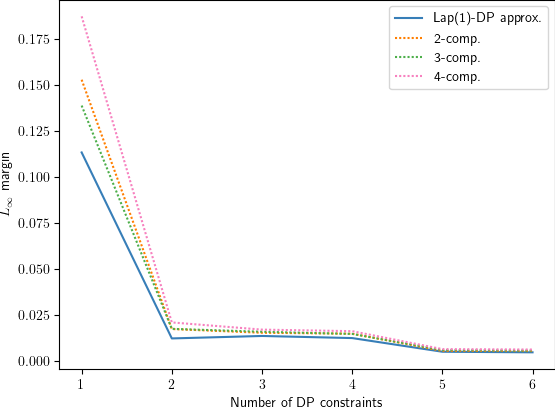
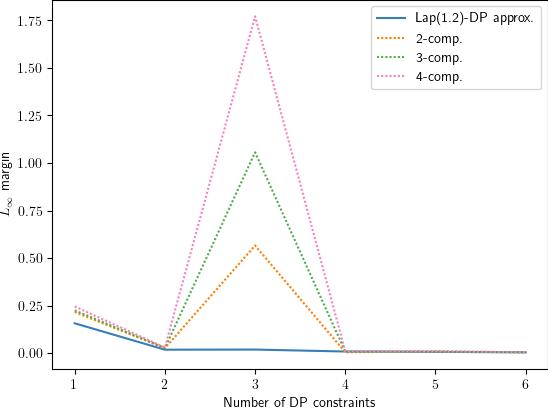
minor updates

diff --git a/plots/tikz/error_n_increases_laplace.tex b/plots/tikz/error_n_increases_laplace.tex
@@ -30,60 +30,60 @@ xticklabels={
 },
 y grid style={darkgray176},
 ylabel={\(\displaystyle L\)\textsubscript{\(\displaystyle \infty\)} margin},
-ymin=-0.00446466842611999, ymax=0.19620593911725,
+ymin=-0.0846290919528497, ymax=1.86014649834277,
 ytick style={color=black},
-ytick={-0.025,0,0.025,0.05,0.075,0.1,0.125,0.15,0.175,0.2},
+ytick={-0.25,0,0.25,0.5,0.75,1,1.25,1.5,1.75,2},
 yticklabels={
-  \(\displaystyle {\ensuremath{-}0.025}\),
-  \(\displaystyle {0.000}\),
-  \(\displaystyle {0.025}\),
-  \(\displaystyle {0.050}\),
-  \(\displaystyle {0.075}\),
-  \(\displaystyle {0.100}\),
-  \(\displaystyle {0.125}\),
-  \(\displaystyle {0.150}\),
-  \(\displaystyle {0.175}\),
-  \(\displaystyle {0.200}\)
+  \(\displaystyle {\ensuremath{-}0.25}\),
+  \(\displaystyle {0.00}\),
+  \(\displaystyle {0.25}\),
+  \(\displaystyle {0.50}\),
+  \(\displaystyle {0.75}\),
+  \(\displaystyle {1.00}\),
+  \(\displaystyle {1.25}\),
+  \(\displaystyle {1.50}\),
+  \(\displaystyle {1.75}\),
+  \(\displaystyle {2.00}\)
 }
 ]
 \addplot [semithick, steelblue55126184]
 table {%
-1 0.113181116017561
-2 0.0121994168574321
-3 0.0135371387055097
-4 0.0123940660325373
-5 0.00497554364827396
-6 0.00465672282585139
+1 0.156449311609944
+2 0.0176490708836282
+3 0.0183196966924224
+4 0.00798178616105538
+5 0.00610708185486197
+6 0.00376979851513315
 };
-\addlegendentry{Lap(1)-DP approx.}
+\addlegendentry{Lap(1.2)-DP approx.}
 \addplot [semithick, darkorange2551270, dash pattern=on 1pt off 1pt]
 table {%
-1 0.152674086478837
-2 0.0172975725748523
-3 0.0152762763219649
-4 0.014767886086232
-5 0.00542793112650508
-6 0.00534697355403924
+1 0.215993960375705
+2 0.0253257308934929
+3 0.565773805580164
+4 0.00418829980438196
+5 0.00777248751510651
+6 0.00398681304326809
 };
 \addlegendentry{2-comp.}
 \addplot [semithick, mediumseagreen7717574, dash pattern=on 1pt off 1pt]
 table {%
-1 0.138635587331849
-2 0.0174078041528515
-3 0.0158240780468046
-4 0.0146445720833639
-5 0.00589305285376346
-6 0.00555648393974822
+1 0.224608316032532
+2 0.0263042343224565
+3 1.05601063653042
+4 0.00772208341175179
+5 0.00760288687898902
+6 0.00427076779714008
 };
 \addlegendentry{3-comp.}
 \addplot [semithick, hotpink247129191, dash pattern=on 1pt off 1pt]
 table {%
-1 0.187084547865279
-2 0.0208856971785384
-3 0.0169827662947102
-4 0.0161412606657182
-5 0.00639645176121861
-6 0.00617121388168884
+1 0.244922622308369
+2 0.0291732445009073
+3 1.77174760787479
+4 0.0101514882226847
+5 0.00839794685215761
+6 0.00469258297742337
 };
 \addlegendentry{4-comp.}
 \end{axis}

diff --git a/src/main.py b/src/main.py
@@ -10,7 +10,7 @@ from f_dp_approximation.smooth_approximation.gaussian_tradeoff import GaussianTr
 from f_dp_approximation.smooth_approximation.laplace_tradeoff import LaplaceTradeoff
 from f_dp_approximation.smooth_approximation.vmf_tradeoff import VonMisesFisherTradeoff
 from main_theorems.heterogeneous_composition_paper import heter_comp_generalized
-from main_theorems.heterogeneous_version import privacy_region_composition_double_dp_heterogeneous_comp, \
+from main_theorems.main_results import privacy_region_composition_double_dp_heterogeneous_comp, \
     privacy_region_composition_heterogeneous_two_constraints, privacy_region_composition_multi_dp
 from main_theorems.other_composition_theorems import (privacy_region_composition_exact, tv_of_eps_delta,
                                                       privacy_region_dp_composition_total_var,
@@ -1491,5 +1491,4 @@ if __name__ == "__main__":
     # main_theorem_comparison_two_ks(eps_1=0.3, delta_1=0.0, eps_2=0.15, delta_2=0.02, k1=3, k2=20, title="theorem_1_comparison_two_ks_small_region")
     # gaussian_compos_approx_tradeoff_and_multi_compos(mu=1., n=4, k_ls=[3, 10], title="gaussian_compos_approx_multi_k")
     # laplace_compos_approx_tradeoff_and_multi_compos(eps=1., n=4, k_ls=[3, 10], title="laplace_compos_approx_multi_k")
-    # approx_gaussian_improves_as_n_increases(1, [2, 3, 4, 5], 8, "error_n_increases_gaussian")
-    approx_laplace_improves_as_n_increases(1.2, [2, 3, 4, 5], 8, "error_n_increases_laplace")
+    approx_gaussian_improves_as_n_increases(1, [2, 3, 4, 5], 8, "error_n_increases_gaussian")

diff --git a/src/tests.py b/src/tests.py
@@ -1,9 +1,9 @@
 import numpy as np
 
 from base.utils import plot_multiple_functions
-from main_theorems.combinatorial_version import privacy_region_composition_double_dp_combinatorial
+from main_theorems.combinatorial_version_doubledp import privacy_region_composition_double_dp_combinatorial
 from main_theorems.heterogeneous_composition_paper import heter_comp_generalized
-from main_theorems.heterogeneous_version import privacy_region_composition_double_dp_heterogeneous_comp, \
+from main_theorems.main_results import privacy_region_composition_double_dp_heterogeneous_comp, \
     privacy_region_composition_heterogeneous_two_constraints
 from main_theorems.other_composition_theorems import privacy_region_composition_exact
 from multi_dp_mixture.dp_functions import MultiEpsDeltaTradeoff, SingleEpsDeltaTradeoff
